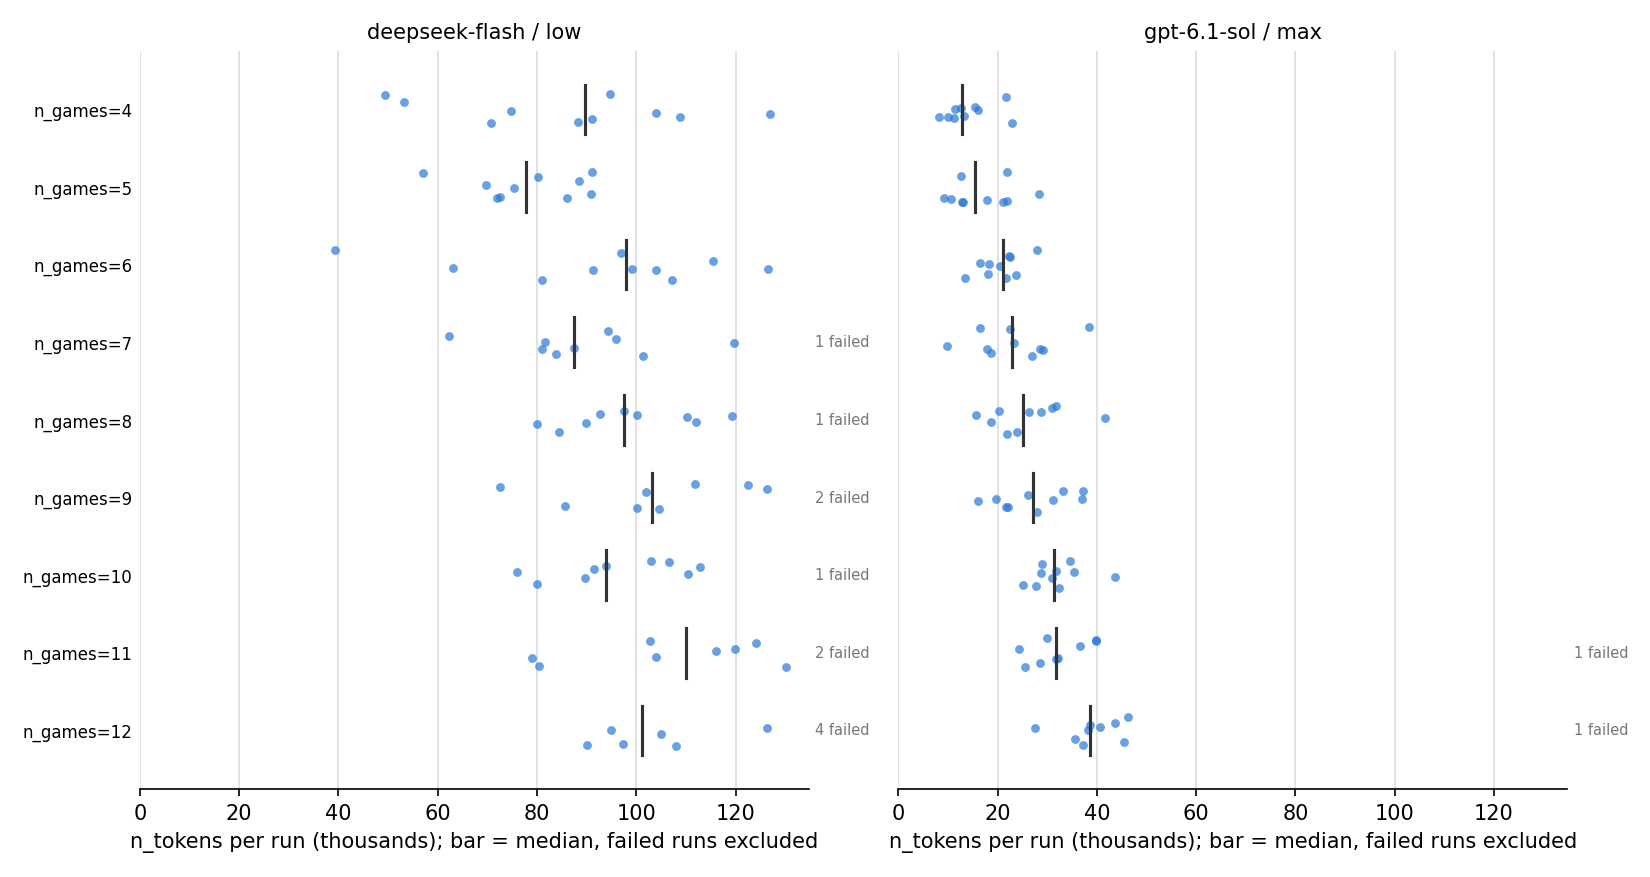
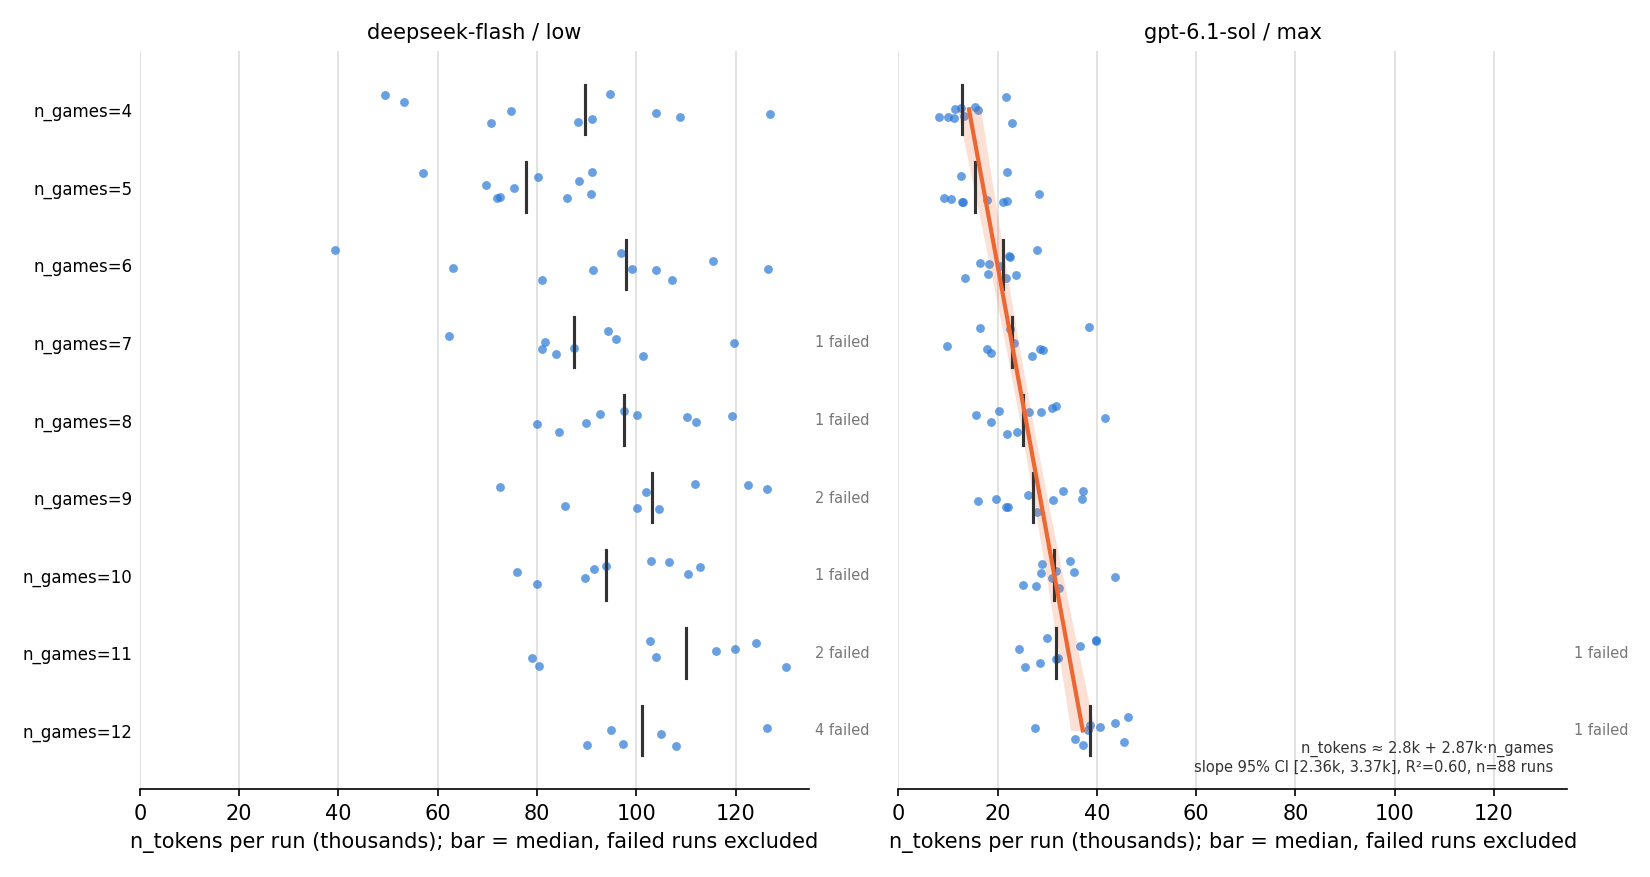
local qwen q8 endgame

Changed region(s): [[0.5564, 0.1231, 0.68, 0.8312], [0.7109, 0.8312, 0.9273, 0.8928]]

diff --git a/plot_endgames.py b/plot_endgames.py
@@ -3,6 +3,7 @@ import argparse
 import matplotlib.pyplot as plt
 import numpy as np
 import pandas as pd
+from scipy import stats
 
 # built by claude
 
@@ -59,7 +60,7 @@ def plot(g, out):
     print(f"wrote {out}")
 
 
-def plot_tokens(df, out):
+def plot_tokens(df, out, fit=None):
     groups = list(df.groupby(["model", "effort"]))
     levels = sorted(df["n_games"].unique())
     row = {n: i for i, n in enumerate(levels)}
@@ -73,6 +74,8 @@ def plot_tokens(df, out):
         ax.scatter(ok["n_tokens"] / 1000, y, s=18, color=OUTCOMES[0][1], alpha=0.7, linewidths=0)
         for n, t in ok.groupby("n_games")["n_tokens"]:
             ax.plot([t.median() / 1000] * 2, [row[n] - 0.32, row[n] + 0.32], color="#333", linewidth=1.5)
+        if fit and fit in model:
+            add_fit(ax, ok, levels, row)
         for n, k in d.groupby("n_games")["failed_run"].sum().items():
             if k:
                 ax.text(1.01, row[n], f"{k} failed", transform=ax.get_yaxis_transform(), va="center", fontsize=7, color="#777")
@@ -93,18 +96,40 @@ def plot_tokens(df, out):
     print(f"wrote {out}")
 
 
+def add_fit(ax, ok, levels, row, conf=0.95):
+    """OLS n_tokens ~ n_games with a confidence band for the mean."""
+    x, t = ok["n_games"].to_numpy(float), ok["n_tokens"].to_numpy(float)
+    r = stats.linregress(x, t)
+    xs = np.array(levels, dtype=float)
+    pred = r.intercept + r.slope * xs
+    resid_sd = np.sqrt(np.sum((t - r.intercept - r.slope * x) ** 2) / (len(x) - 2))
+    q = stats.t.ppf((1 + conf) / 2, len(x) - 2)
+    half = q * resid_sd * np.sqrt(1 / len(x) + (xs - x.mean()) ** 2 / np.sum((x - x.mean()) ** 2))
+    ys = [row[n] for n in levels]
+    color = OUTCOMES[1][1]
+    ax.fill_betweenx(ys, (pred - half) / 1000, (pred + half) / 1000, color=color, alpha=0.2, linewidth=0)
+    ax.plot(pred / 1000, ys, color=color, linewidth=2)
+    slope_half = q * r.stderr
+    ax.text(0.98, 0.02, f"n_tokens ≈ {r.intercept / 1000:.1f}k + {r.slope / 1000:.2f}k·n_games\n"
+            f"slope 95% CI [{(r.slope - slope_half) / 1000:.2f}k, {(r.slope + slope_half) / 1000:.2f}k], "
+            f"R²={r.rvalue ** 2:.2f}, n={len(x)} runs",
+            transform=ax.transAxes, ha="right", va="bottom", fontsize=7, color="#333")
+    print(f"fit: intercept={r.intercept:.0f} slope={r.slope:.0f} ±{slope_half:.0f} R2={r.rvalue ** 2:.3f} n={len(x)}")
+
+
 def main():
     p = argparse.ArgumentParser()
     p.add_argument("--csv", default="out/endgames.csv")
     p.add_argument("--out", default="out/endgames.png")
     p.add_argument("--tokens-out", default="out/endgames_tokens.png")
+    p.add_argument("--fit", default="sol", help="fit n_tokens ~ n_games for models containing this substring")
     p.add_argument("--show", action="store_true")
     args = p.parse_args()
 
     df, g = load(args.csv)
     print(g.to_string(index=False))
     plot(g, args.out)
-    plot_tokens(df, args.tokens_out)
+    plot_tokens(df, args.tokens_out, args.fit)
     if args.show:
         plt.show()
 
